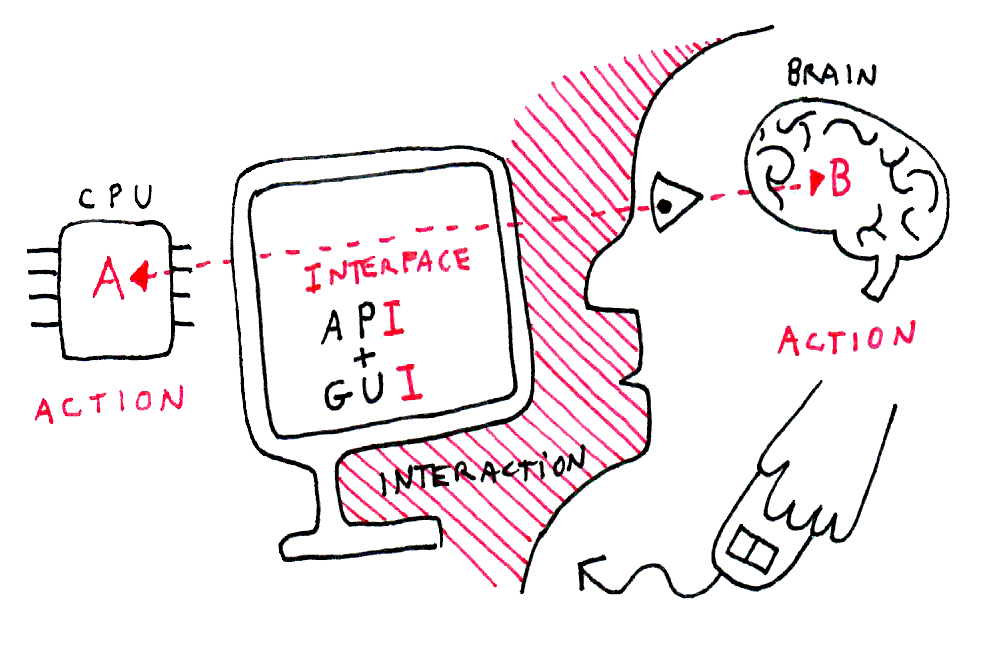
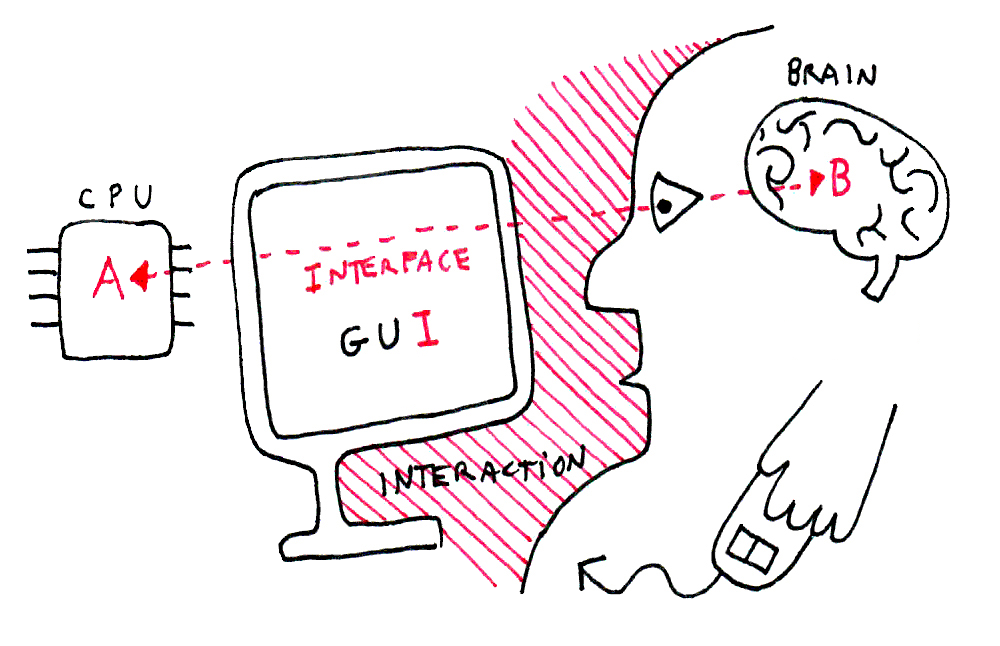
changing abstract and obstacles slide

Changed region(s): [[0.31, 0.4644, 0.434, 0.6502], [0.775, 0.4954, 0.93, 0.5573], [0.031, 0.5882, 0.186, 0.6502]]

diff --git a/app/deblackboxing/abstract/page.tsx b/app/deblackboxing/abstract/page.tsx
@@ -10,23 +10,28 @@ interface Props {
 
 export default function Abstract({ searchParams }: Props) {
   const { mode } = searchParams;
-  const [revealed, setRevealed] = useState(false);
+  const [animationStep, setAnimationStep] = useState(0);
+  const maxAnimationStep = 6;
+
+  const goToNextStep = () => {
+    setAnimationStep((prev) => (prev < maxAnimationStep ? prev + 1 : prev));
+  };
 
   useEffect(() => {
     const handleKey = (e: KeyboardEvent) => {
-      if (!revealed && (e.key === "Enter" || e.key === "ArrowRight")) {
+      if (e.key === "ArrowRight" || e.key === " " || e.key === "Space" || e.key === "Spacebar") {
         e.preventDefault();
         e.stopPropagation();
-        setRevealed(true);
+        goToNextStep();
       }
     };
     window.addEventListener("keydown", handleKey, true);
     return () => window.removeEventListener("keydown", handleKey, true);
-  }, [revealed]);
+  }, []);
 
   const abstract =
     <p className="text-lg ">
-      This dissertation examines <em>deblackboxing</em> as an architect-led practice of toolmaking: the expansion of the architect’s disciplinary scope from the operation of software to its authorship. While digital tools have transformed architectural education, representation, and production, the field’s increasing dependence on proprietary software and closed file formats has intensified <em>black boxing</em>—systems that can be understood in terms of their inputs and outputs, but whose processes are not accessible to users, shifting agency away from the architect and toward software vendors.
+      This dissertation examines <em>deblackboxing</em> as an architect-led practice of toolmaking: the expansion of the architect’s disciplinary scope from operating software to its authorship. While digital tools have transformed architectural education, representation, and production, the field’s increasing dependence on proprietary software and closed file formats has intensified <em>black boxing</em>—systems that can be understood in terms of their inputs and outputs, but whose processes are not accessible to users, shifting agency away from the architect and toward software vendors.
 
       Against this opacity, the dissertation proposes <em>deblackboxing</em>—defined as the critical act of making digital tools inspectable and modifiable—as a necessary disciplinary intervention. This research argues that this reclamation of agency is best achieved through a synthesis of open-source development and programming pedagogy, treating programming not as a technical utility but as a form of architectural literacy.
 
@@ -37,23 +42,21 @@ export default function Abstract({ searchParams }: Props) {
 
   const highlightedAbstract =
     <p className="text-lg ">
-      This dissertation examines <strong><em>deblackboxing</em></strong> as an architect-led practice of <strong>toolmaking</strong>: <span className='bg-gray-200 py-[0.5px] px-1 rounded-md'>the expansion of the architect’s disciplinary scope from the operation of software to its authorship</span>. While digital tools have transformed architectural education, representation, and production, the field’s <span className='bg-red-100 py-[0.5px] px-1 rounded-md'>increasing dependence on proprietary software and closed file formats</span> has intensified <strong><em>black boxing</em></strong>—<span className='bg-gray-200 py-[0.5px] px-1 rounded-md'>systems that can be understood in terms of their inputs and outputs, but whose processes are not accessible to users</span>, shifting agency away from the architect and toward software vendors.
+      This dissertation examines <span className={animationStep >= 2 ? "bg-yellow-200 py-[0.5px] px-1 rounded-md" : ""}><strong><em>deblackboxing</em></strong> as an architect-led practice of <strong>toolmaking</strong></span>: <span className={animationStep >= 3 ? "bg-yellow-200 py-[0.5px] px-1 rounded-md" : "bg-gray-200 py-[0.5px] px-1 rounded-md"}>the expansion of the architect’s disciplinary scope from operating software to its authorship</span>. While digital tools have transformed architectural education, representation, and production, the field’s <span className='bg-red-100 py-[0.5px] px-1 rounded-md'>increasing dependence on proprietary software and closed file formats</span> has intensified <strong><em>black boxing</em></strong>—<span className='bg-gray-200 py-[0.5px] px-1 rounded-md'>systems that can be understood in terms of their inputs and outputs, but whose processes are not accessible to users</span>, shifting agency away from the architect and toward software vendors.
 
-      Against this opacity, the dissertation proposes <strong><em>deblackboxing</em></strong>—defined as the critical act of <span className='bg-gray-200 py-[0.5px] px-1 rounded-md'>making digital tools inspectable and modifiable</span>—as a necessary disciplinary intervention. This research argues that this reclamation of agency is best achieved through a synthesis of <strong className='text-red-800'>open-source development</strong> and <strong className='text-blue-800'>programming pedagogy</strong>, treating programming not as a technical utility but as a form of architectural literacy.
+      Against this opacity, the dissertation proposes <span className={animationStep >= 5 ? "bg-yellow-200 py-[0.5px] px-1 rounded-md" : ""}><strong><em>deblackboxing</em></strong>—defined as the critical act of <span className={animationStep >= 5 ? "bg-yellow-200 py-[0.5px] px-1 rounded-md" : "bg-gray-200 py-[0.5px] px-1 rounded-md"}>making digital tools inspectable and modifiable</span></span>—as a necessary disciplinary intervention. This research argues that this reclamation of <span className={animationStep >= 4 ? "bg-yellow-200 py-[0.5px] px-1 rounded-md" : ""}><strong>agency</strong></span> is best achieved through a synthesis of <strong className='text-red-800'>open-source development</strong> and <strong className='text-blue-800'>programming pedagogy</strong>, treating programming not as a technical utility but as a form of architectural literacy.
 
       The dissertation investigates this hypothesis through <span className='bg-gray-200 py-[0.5px] px-1 rounded-md'>two primary epistemic objects</span>. First, it establishes a pedagogical framework for <span className='bg-blue-100 py-[0.5px] px-1 rounded-md'>teaching open-source toolmaking</span>. Results from this study demonstrate that when students are equipped to modify their digital instruments, they transcend the role of passive users to become active toolmakers, thereby regaining critical control over the design process. Second, the research documents <span className='bg-red-100 py-[0.5px] px-1 rounded-md'>the development of <em>Canada’s Digital Twin</em></span>, a web-based open-source BIM/GIS platform designed to bridge the interoperability gap between building and territorial data.
 
-      The successful deployment of this platform—which has garnered both Canadian and international recognition—serves as empirical validation that <span className='bg-gray-200 py-[0.5px] px-1 rounded-md'>open-source architectures can surpass specific limitations of proprietary software</span>. By bridging theory, <strong className='text-blue-800'>pedagogy</strong>, and <strong className='text-red-800'>applied software research</strong>, this dissertation confirms that toolmaking is a fundamental competence for the contemporary architect, one that is essential for engaging with multidisciplinary teams and securing the <strong>profession’s agency</strong> in a digitized built environment.
+      The successful deployment of this platform—which has garnered both Canadian and international recognition—serves as empirical validation that <span className='bg-gray-200 py-[0.5px] px-1 rounded-md'>open-source architectures can surpass specific limitations of proprietary software</span>. By bridging theory, <strong className='text-blue-800'>pedagogy</strong>, and <strong className='text-red-800'>applied software research</strong>, this dissertation confirms that <span className={animationStep >= 6 ? "bg-yellow-200 py-[0.5px] px-1 rounded-md" : ""}><strong>toolmaking is a fundamental competence for the contemporary architect</strong></span>, one that is essential for engaging with multidisciplinary teams and securing the <span className={animationStep >= 4 ? "bg-yellow-200 py-[0.5px] px-1 rounded-md" : ""}><strong>profession’s agency</strong></span> in a digitized built environment.
     </p>
 
   return (
     <section
       className="flex-col flex justify-center items-center w-full h-full cursor-text"
       onClick={(e) => {
-        if (!revealed) {
-          e.stopPropagation();
-          setRevealed(true);
-        }
+        e.stopPropagation();
+        goToNextStep();
       }}
     >
       <h1 className="text-3xl mb-6">Deblackboxing the Architect’s Toolbox</h1>
@@ -63,7 +66,7 @@ export default function Abstract({ searchParams }: Props) {
         className={`flex flex-col  w-2/3 max-h-[600px] m-6 p-12 bg-opacity-70 ${mode === 'dark' ? 'bg-black' : 'bg-white'
           }  text-justify`}
       >
-        {revealed ? highlightedAbstract : abstract}
+        {animationStep >= 1 ? highlightedAbstract : abstract}
         <br />
       </section>
     </section>

diff --git a/app/deblackboxing/DbbSlides.ts b/app/deblackboxing/DbbSlides.ts
@@ -20,11 +20,16 @@ Open-Source Toolmaking for Architects Beyond Proprietary Software and Closed Fil
     id: "abstract",
     title: "Abstract",
     url: "/deblackboxing/abstract",
-    notes: "As you may recall, my dissertation examines 'deblackboxing' as an architect-led practice of toolmaking.\n\
-Specifically, it explores expanding the architect's disciplinary scope from operating software to authorship.\n\
-To reclaim agency, this research proposes Deblackboxing:\n\
-which is the critical act of making digital tools inspectable and modifiable.\n\
-My research argues that the way to achieve this is through open-source toolmaking."
+    notes: "As you may recall, my dissertation examines\n\
+  1)'deblackboxing' as an architect-led practice of toolmaking.\n\
+    \n\
+  2) Specifically, it explores the expansion of the architect’s disciplinary scope from operating software to its authorship.\n\
+\n\
+  3) To reclaim agency, this research proposes\n\
+\n\
+  4) Deblackboxing, which is the critical act of making digital tools inspectable and modifiable.\n\
+\n\
+  5) My research argues that the way to achieve this is through open-source toolmaking."
   },
   {
     id: "chapters",
@@ -46,7 +51,7 @@ ________________________________________________________________________________
   },
   {
     id: "obstacles",
-    title: "Obstacles: black boxes and digital oblivion (Chapter 1)",
+    title: "Obstacles (Chapter 1)",
     url: "/deblackboxing/obstacles",
     notes: "Let me know describe to you the problem that I have identified in my research\n\
 Which is that the architecture profession faces a crisis of agency.\n\

diff --git a/app/deblackboxing/obstacles/page.tsx b/app/deblackboxing/obstacles/page.tsx
@@ -8,7 +8,7 @@ import EastIcon from "@mui/icons-material/EastRounded";
 
 function ObstaclesContent() {
   const blackBox = "/images/blackBox.png";
-  const proprietary = "/images/defence/proprietaryBoxes.png";
+  const obstacles = "/images/defence/obstacles.png";
   const interfaces = "/images/defence/interaction.png";
   const searchParams = useSearchParams();
   const animateParam = searchParams.get("animate") ?? searchParams.get("animation");
@@ -84,8 +84,8 @@ function ObstaclesContent() {
           <Image
             priority
             src={interfaces}
-            height={300}
-            width={300}
+            height={400}
+            width={400}
             alt="Interfaces — the medium is the message"
           />
         </div>
@@ -94,9 +94,9 @@ function ObstaclesContent() {
         </div>
         <Image
           priority
-          src={blackBox}
-          height={300}
-          width={300}
+          src={obstacles}
+          height={600}
+          width={600}
           alt="Black box"
         />
         <div style={rightStyle}>
@@ -105,7 +105,7 @@ function ObstaclesContent() {
         <div style={rightStyle}>
           <Image
             priority
-            src={proprietary}
+            src={blackBox}
             height={300}
             width={300}
             alt="Proprietary software and closed file formats"
